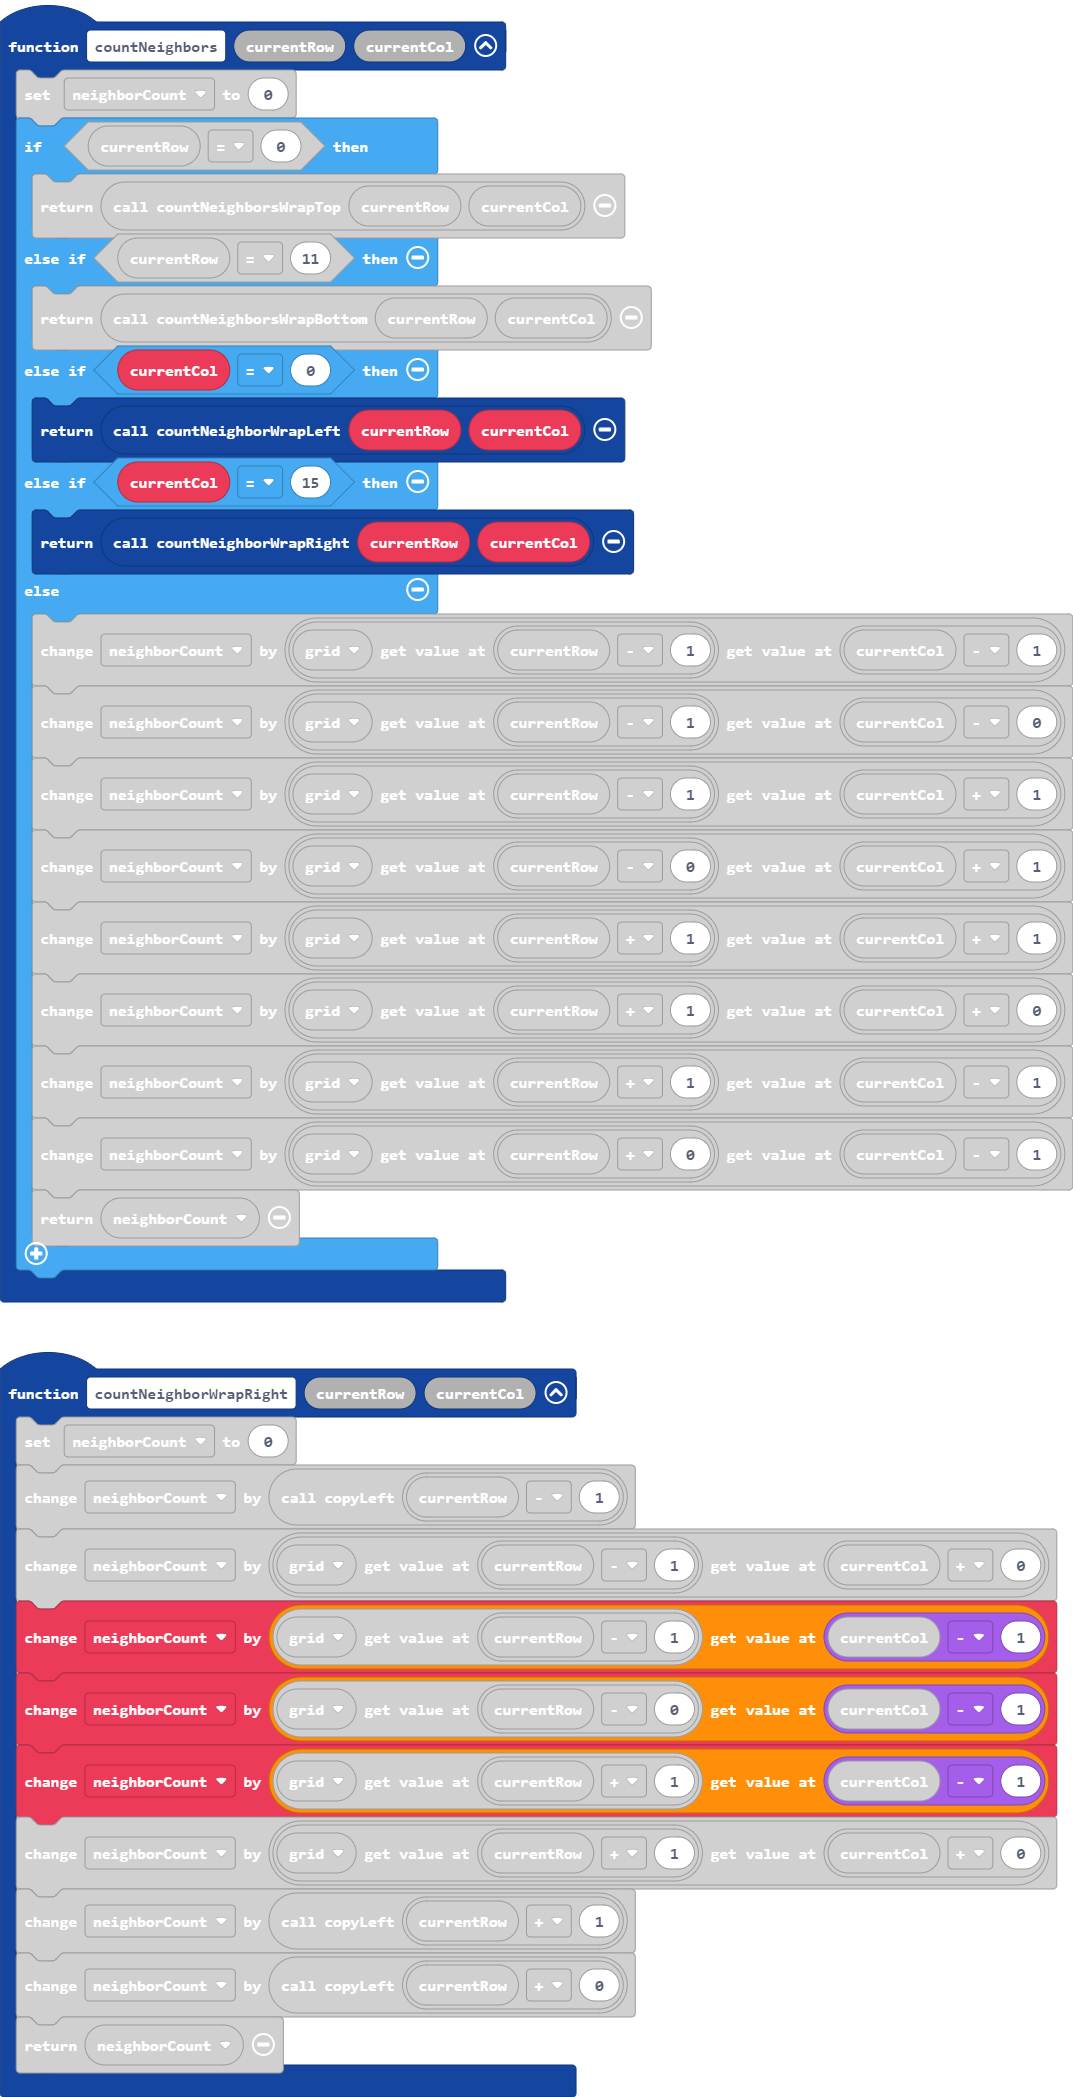
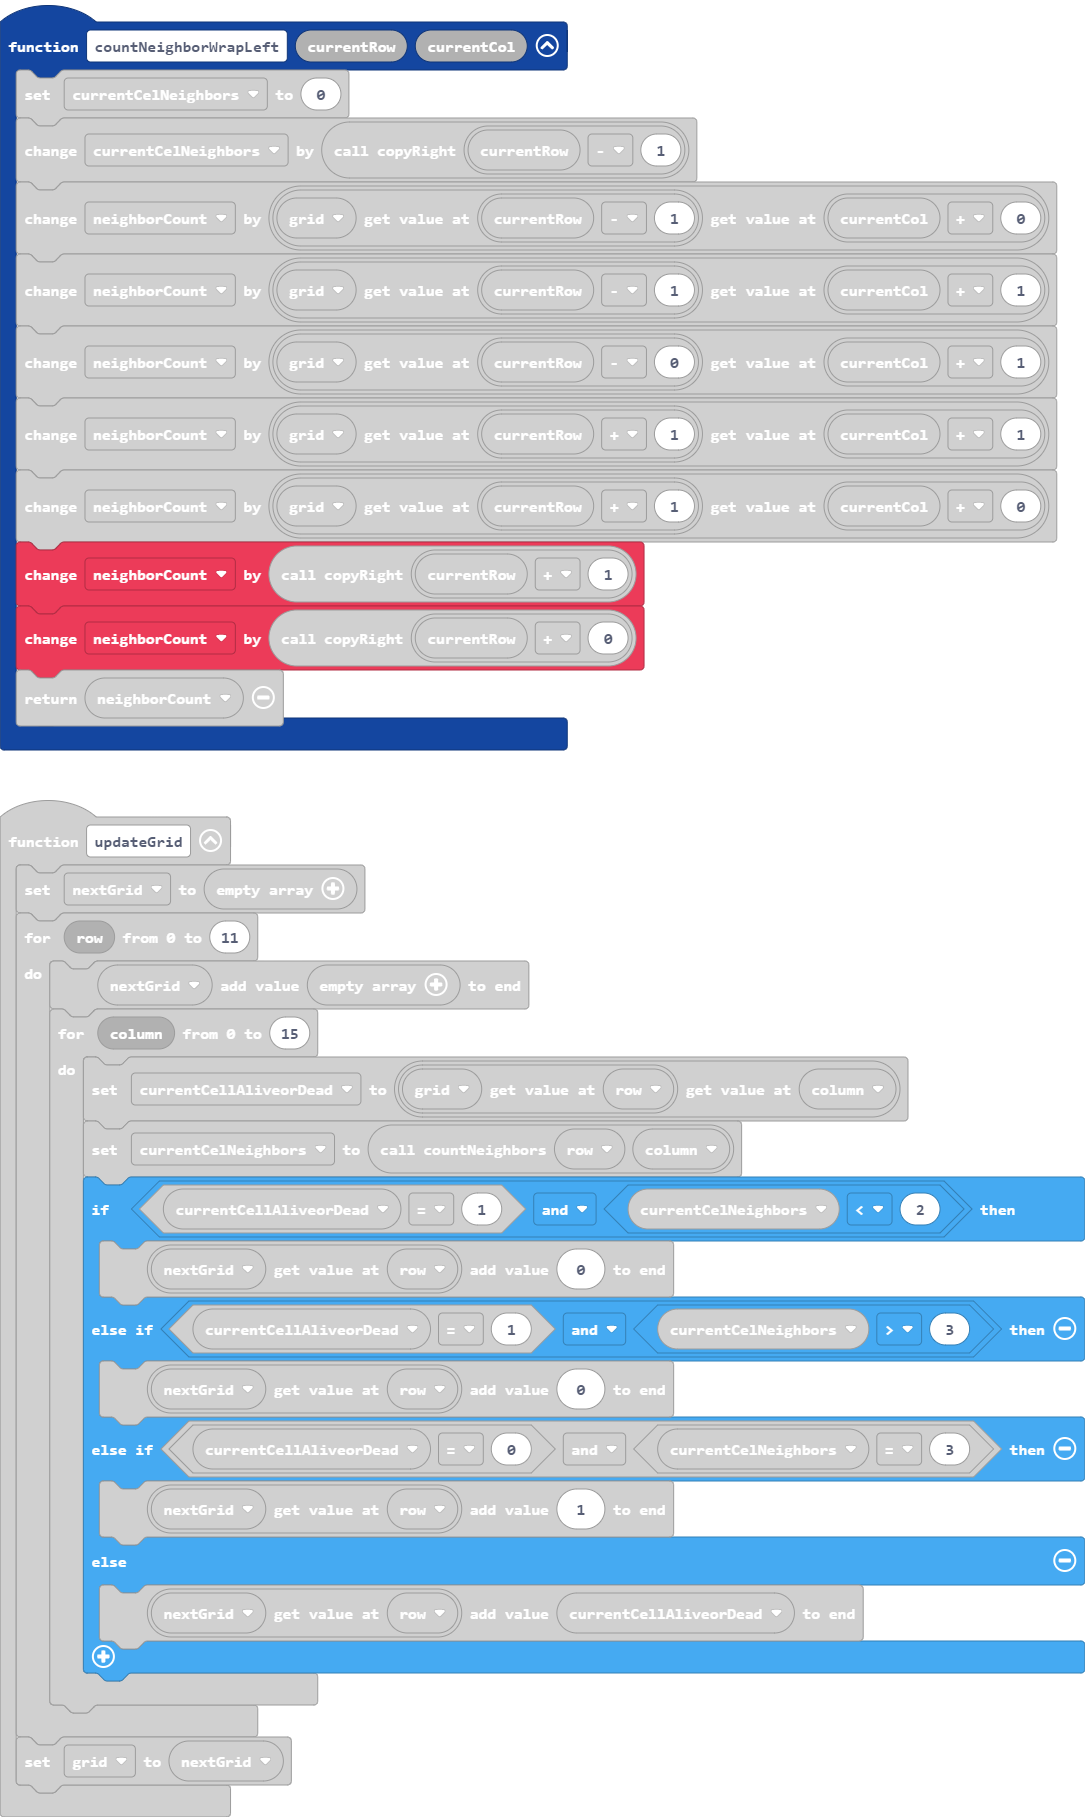
Update main.blocks, main.ts

diff --git a/main.ts b/main.ts
@@ -68,9 +68,9 @@ function updateGrid () {
         for (let column = 0; column <= 15; column++) {
             currentCellAliveorDead = grid[row][column]
             currentCelNeighbors = countNeighbors(row, column)
-            if (currentCellAliveorDead == 1 && currentCelNeighbors == 2) {
+            if (currentCellAliveorDead == 1 && currentCelNeighbors < 2) {
                 nextGrid[row].push(0)
-            } else if (currentCellAliveorDead == 1 && currentCelNeighbors == 3) {
+            } else if (currentCellAliveorDead == 1 && currentCelNeighbors > 3) {
                 nextGrid[row].push(0)
             } else if (currentCellAliveorDead == 0 && currentCelNeighbors == 3) {
                 nextGrid[row].push(1)
@@ -230,8 +230,8 @@ function countNeighborWrapLeft (currentRow: number, currentCol: number) {
     neighborCount += grid[currentRow - 0][currentCol + 1]
     neighborCount += grid[currentRow + 1][currentCol + 1]
     neighborCount += grid[currentRow + 1][currentCol + 0]
-    currentCelNeighbors += copyRight(currentRow + 1)
-    currentCelNeighbors += copyRight(currentRow + 0)
+    neighborCount += copyRight(currentRow + 1)
+    neighborCount += copyRight(currentRow + 0)
     return neighborCount
 }
 function countNeighborsWrapBottom (currentRow: number, currentCol: number) {
